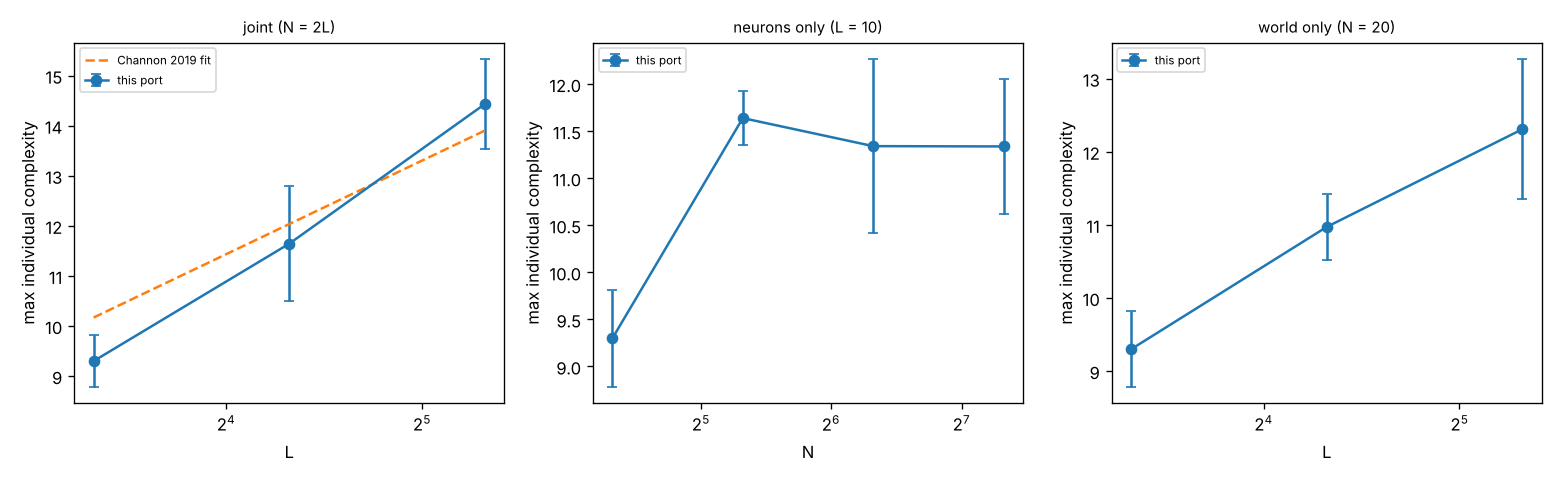
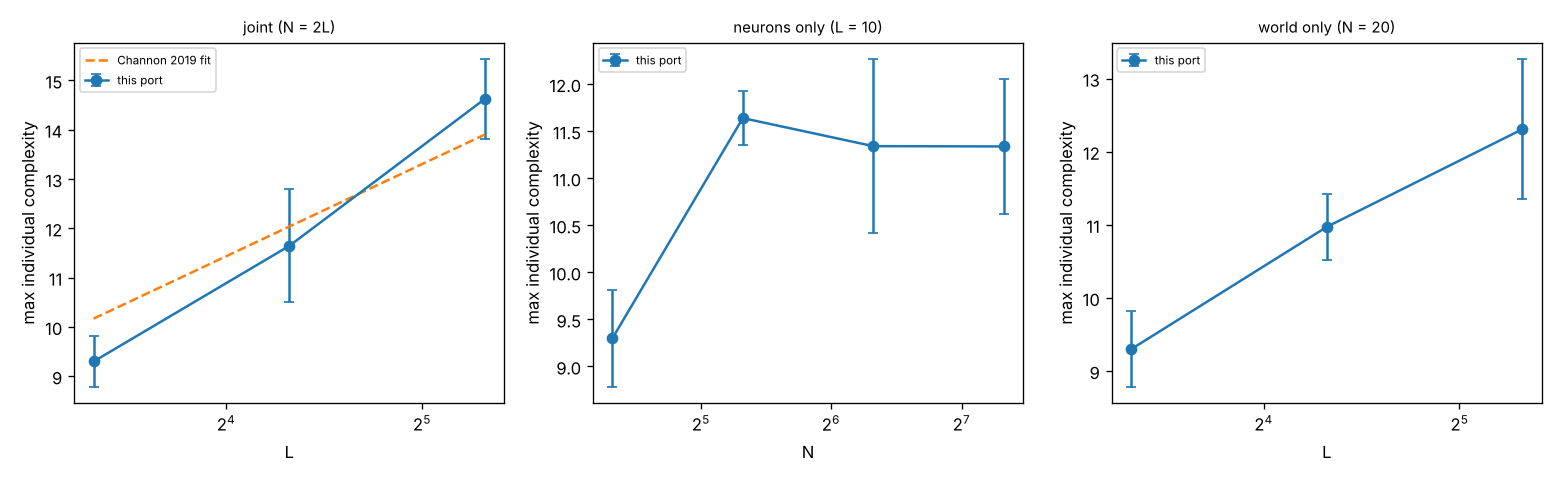
Final Channon 2019 scaling results (40 runs) and interpretation

diff --git a/docs/SCALING.md b/docs/SCALING.md
@@ -85,7 +85,7 @@ when L or N is scaled alone, and whether it keeps increasing when both are scale
 together.
 
 ### Results
-Interim: 35 of 36 runs complete (one (40, 80) run pending).
+All 40 runs (36 new, plus the five (20, 20) M1 runs), window 0.5M-1M steps.
 
 | L | N | runs | max individual complexity (mean) | 95% CI | Channon 2019 joint fit |
 |---|---|---|---|---|---|
@@ -96,16 +96,41 @@ Interim: 35 of 36 runs complete (one (40, 80) run pending).
 | 20 | 20 | 5 | 10.97 | ±0.46 |  |
 | 20 | 40 | 5 | 11.64 | ±1.15 | 12.03 |
 | 40 | 20 | 5 | 12.31 | ±0.96 |  |
-| 40 | 80 | 4 | 14.43 | ±0.90 | 13.90 |
+| 40 | 80 | 5 | 14.62 | ±0.81 | 13.90 |
 
-Joint scaling fit (N = 2L): complexity = 9.23 + 2.56 log2(L/10), slope SE 0.22, R² 0.918, n 14 runs. Channon 2019: 10.17 + 1.87 log2(scale).
-softmin model (all runs): complexity = 4.31 + 3.05 softmin(ln L, ln N), R² 0.695, n 39 runs.
-
+Joint scaling fit (N = 2L): complexity = 9.19 + 2.66 log2(L/10), slope SE 0.22, R² 0.920, n 15 runs. Channon 2019: 10.17 + 1.87 log2(scale).
+softmin model (all runs): complexity = 3.99 + 3.20 softmin(ln L, ln N), R² 0.733, n 40 runs.
 
 ![scaling](results/scaling/scaling.png)
 
 ### Interpretation
-Pending the final run.
+1. **Joint scaling (N = 2L): complexity keeps increasing.**
+   - Fit: 9.19 + 2.66·log2(L/10). Slope SE 0.22; R² 0.92 over 15 runs and three scales.
+   - Channon reports 10.17 + 1.87·log2(scale). The trend has the same form, roughly
+     logarithmic growth with no sign of a plateau.
+   - The slope here is steeper, about 3.6 standard errors above Channon's, and the
+     intercept is lower. Likely cause: the short 1M-step window, in which smaller
+     settings may not yet have reached their asymptote. This is not established.
+2. **Neurons only (L = 10): plateau.**
+   - Complexity rises from 9.30 (N = 20) to 11.64 (N = 40), then stays flat:
+     11.34 at both N = 80 and N = 160.
+   - The bottleneck moves to world size, as Channon reports.
+3. **World only (N = 20): no plateau yet at L = 40.**
+   - Complexity: 9.30 → 10.97 → 12.31 for L = 10, 20, 40.
+   - This does not contradict the plateau prediction:
+     - The softmin model (complexity = a + b·softmin(ln L, ln N)) still predicts growth
+       at these settings, because softmin(ln 40, ln 20) = ln 13.3 lies well below ln 20.
+     - A plateau should appear only for L ≫ N.
+     - Fitted over all 40 runs: 3.99 + 3.20·softmin(ln L, ln N), R² 0.73.
+   - Testing the world-only plateau directly needs L ≥ 80 at N = 20.
+
+Summary: Channon's main 2019 result is reproduced qualitatively — complexity keeps
+increasing when world size and neuron limit are scaled together, and saturates when the
+neuron limit is scaled alone. The world-only plateau was outside the range tested.
+
+Conditioning: one scaling run (L10_N80_s15) was rescued once, at 788,611 steps,
+rolled back to 500,000 (the start of the measurement window). The other 35 new runs
+never froze within 1M steps.
 
 ## Reproduce
 ```

diff --git a/docs/RESULTS.md b/docs/RESULTS.md
@@ -20,7 +20,8 @@ null control: an independent second reset shadow, analysed as if it were the rea
 
    In each, a single killing population stopped reproducing. Channon reports the same
    outcome in some of his runs (GPEM sections 6.4 and 10). These runs are analysed up to
-   their last birth.
+   their last birth. Rollback and reseed now rescues frozen runs; rescued seed 1 reached
+   4M steps and classifies 3b ([SCALING.md](SCALING.md), section 1).
 4. The strict Table I classification rule defined below gives results that depend on
    run length. It also gives one false positive: the seed-5 null at 8M (details
    below). Effect sizes and smoothed trajectories are the more reliable evidence.
@@ -125,5 +126,6 @@ including the whole-rule grouping: [results/m1/summary_final.md](results/m1/summ
 - Replace the per-run trend rule with a real-versus-null comparison (effect size, or a
   test calibrated on many null controls).
 - Run more seeds, and the independent-shadow variant on further seeds.
-- Channon 2019 joint-scaling test (`-length`, `-neurons`).
+- Channon 2019 joint-scaling test: done, see [SCALING.md](SCALING.md). Joint scaling
+  keeps increasing; neurons-only scaling plateaus.
 - Larger populations, to reduce stagnation (requires the L0/L3 work in DESIGN.md).

diff --git a/docs/results/scaling/scaling.md b/docs/results/scaling/scaling.md
@@ -7,7 +7,7 @@
 | 20 | 20 | 5 | 10.97 | ±0.46 |  |
 | 20 | 40 | 5 | 11.64 | ±1.15 | 12.03 |
 | 40 | 20 | 5 | 12.31 | ±0.96 |  |
-| 40 | 80 | 4 | 14.43 | ±0.90 | 13.90 |
+| 40 | 80 | 5 | 14.62 | ±0.81 | 13.90 |
 
-Joint scaling fit (N = 2L): complexity = 9.23 + 2.56 log2(L/10), slope SE 0.22, R² 0.918, n 14 runs. Channon 2019: 10.17 + 1.87 log2(scale).
-softmin model (all runs): complexity = 4.31 + 3.05 softmin(ln L, ln N), R² 0.695, n 39 runs.
+Joint scaling fit (N = 2L): complexity = 9.19 + 2.66 log2(L/10), slope SE 0.22, R² 0.920, n 15 runs. Channon 2019: 10.17 + 1.87 log2(scale).
+softmin model (all runs): complexity = 3.99 + 3.20 softmin(ln L, ln N), R² 0.733, n 40 runs.
